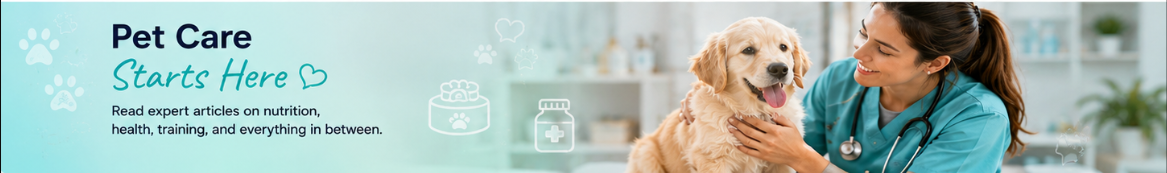
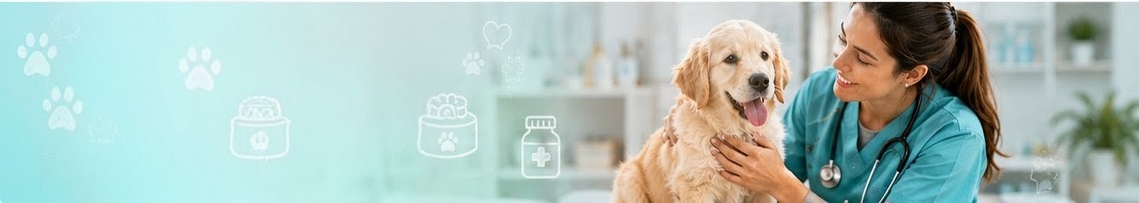
updated the hero file

diff --git a/frontend/src/components/hero.jsx b/frontend/src/components/hero.jsx
@@ -87,7 +87,8 @@ function Hero() {
 
     return (
 
-        <section className="relative w-[650x] h-[420px] overflow-hidden rounded-3xl shadow-2xl">
+        <section className="relative w-full
+         h-[420px] overflow-hidden rounded-3xl shadow-2xl">
 
             <img
                 src={slides[currentSlide].image}
